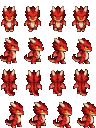
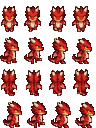
feat(agents): herramientas desde las garras de Dr4co y paso lateral del sprite
- Nuevo modulo AgentCosmetics: parche Harmony sobre Game1.drawTool que
  desplaza la herramienta mientras se dibuja si el cuerpo activo (modData
  FashionSense.CustomBody.Id) es el de Dr4co. Solo afecta al dibujo; la
  casilla objetivo no cambia y no hay dependencia de Fashion Sense.
  Valores por direccion en Pelican4Ever.Core/Players/AgentToolOffset.cs.
- Sprite (GIMP): el pie delantero de las vistas laterales da el paso
  (1 px), contorno oscuro en los bordes claros (punta del hocico) y la
  fila izquierda va 2 px hacia la cola para no cortar el hocico.

diff --git a/scripts/build_dr4co_body.py b/scripts/build_dr4co_body.py
@@ -28,6 +28,9 @@ TOP=40        # source rows above this are empty in every cell
 SRC=os.path.abspath("dr4co-sid-v2.png")
 src=Image.open(SRC).convert("RGBA")
 
+FOOT_H=5      # rows of the front foot that are moved to make the step
+STEP={0:(0,0),1:(1,-1),2:(0,0),3:(-1,0)}   # front-foot (dx,dy) per walk frame: 1 px forward+raised, planted, 1 px back
+feet_regions=[]   # (x, y, w, h, dx, dy) in sheet px
 specs=[]   # (src_x, src_y, src_w, src_h, target_w, target_h, x_in_cell, y_in_cell, cell_x, cell_y)
 for r in range(4):
     sr=1 if r==3 else r                       # left row = right row, unflipped
@@ -39,7 +42,7 @@ for r in range(4):
     feet=[]
     for a in alph:
         cols=np.where(a[-12:].any(0))[0]; feet.append((cols.min()+cols.max())/2)
-    feet_row=float(np.mean(feet)); target=FOOTX if r!=3 else CW-FOOTX
+    feet_row=float(np.mean(feet)); target=FOOTX if r!=3 else CW-FOOTX-2   # left row: 2 px towards the tail so the snout tip is not clipped by the cell edge
     tw,th=round(64*f*sx),round(sh*f)
     for c in range(4):
         centre=(boxes[c][0]+boxes[c][2])/2 if r in (0,2) else feet_row
@@ -48,9 +51,17 @@ for r in range(4):
         # so the dragon never floats above its shadow / collision tile
         oy=CH-round(boxes[c][3]*f)
         specs.append((c*64,sr*128+TOP,64,sh,tw,th,ox,oy,c*CW,r*CH))
+        if r in (1,3):
+            # front foot (the one on the snout side): bottom rows, right of the feet centre
+            a=alph[c]; bot=boxes[c][3]
+            cols=np.where(a[bot-10:bot].any(0))[0]; cols=cols[cols>feet_row+2]
+            if len(cols):
+                fx0=c*CW+ox+int(np.floor(cols.min()*f)); fx1=c*CW+ox+int(np.ceil(cols.max()*f))+1
+                feet_regions.append((fx0, r*CH+CH-FOOT_H, fx1-fx0, FOOT_H)+STEP[c])
     print("row",r,"scale %.3f x %.3f"%(f*sx,f),"target %dx%d"%(tw,th))
 
 def q(p): return '"'+p.replace('\\','\\\\').replace('"','\\"')+'"'
+foot_s=" ".join("(list %d %d %d %d %d %d)"%t for t in feet_regions if t[4] or t[5])
 spec_s=" ".join("(list %d %d %d %d %d %d %d %d %d %d)"%s for s in specs)
 scm=f'''
 (let* ((srcimg (car (gimp-file-load RUN-NONINTERACTIVE {q(SRC)} {q(SRC)})))
@@ -74,6 +85,30 @@ scm=f'''
     (list {spec_s}))
   (let* ((layer (car (gimp-image-merge-visible-layers sheet CLIP-TO-IMAGE))))
     (plug-in-threshold-alpha RUN-NONINTERACTIVE sheet layer 90)
+    ; step: move the front foot of the side views (floating selection, then anchor)
+    (for-each
+      (lambda (t)
+        (gimp-image-select-rectangle sheet CHANNEL-OP-REPLACE (nth 0 t) (nth 1 t) (nth 2 t) (nth 3 t))
+        (gimp-image-select-item sheet CHANNEL-OP-INTERSECT layer)
+        (let* ((fl (car (gimp-selection-float layer (nth 4 t) (nth 5 t)))))
+          (gimp-floating-sel-anchor fl)))
+      (list {foot_s}))
+    (gimp-selection-none sheet)
+    ; dark outline wherever the silhouette edge is bright (snout tip, horn tips, belly, highlights);
+    ; edges that are already dark are left alone. Brightness mask = value-thresholded copy.
+    (let* ((mask (car (gimp-layer-copy layer FALSE))))
+      (gimp-image-insert-layer sheet mask 0 -1)
+      (gimp-drawable-threshold mask HISTOGRAM-VALUE 0.6 1.0)
+      (gimp-image-select-item sheet CHANNEL-OP-REPLACE layer)
+      (gimp-selection-shrink sheet 1)
+      (gimp-selection-invert sheet)
+      (gimp-image-select-item sheet CHANNEL-OP-INTERSECT layer)
+      (gimp-context-set-sample-threshold 0.1)
+      (gimp-image-select-color sheet CHANNEL-OP-INTERSECT mask '(255 255 255))
+      (gimp-image-remove-layer sheet mask))
+    (gimp-context-set-foreground '(77 7 11))
+    (gimp-drawable-edit-fill layer FILL-FOREGROUND)
+    (gimp-selection-none sheet)
     (gimp-image-convert-indexed sheet CONVERT-DITHER-NONE CONVERT-PALETTE-GENERATE {NCOL} FALSE TRUE "")
     (gimp-image-convert-rgb sheet)
     (file-png-save RUN-NONINTERACTIVE sheet layer {q(OUT)} {q(OUT)} 0 9 0 0 0 0 0))

diff --git a/Pelican4Ever/Modules/AgentCosmeticsModule.cs b/Pelican4Ever/Modules/AgentCosmeticsModule.cs
@@ -1,0 +1,67 @@
+using System;
+using HarmonyLib;
+using Microsoft.Xna.Framework;
+using Pelican4Ever.Core.Players;
+using Pelican4Ever.Framework;
+using StardewModdingAPI;
+using StardewValley;
+
+namespace Pelican4Ever.Modules
+{
+    /// <summary>
+    /// Ajustes de dibujo para los cuerpos cosméticos de los agentes (p. ej. Dr4co, pack de Fashion Sense).
+    /// Desplaza la herramienta en uso para que salga de las garras del cuerpo y no de su cara.
+    /// No depende de Fashion Sense: solo lee el id del cuerpo en <c>Farmer.modData</c>, que se sincroniza,
+    /// así que cada cliente con el mod dibuja bien también las herramientas de los demás.
+    /// </summary>
+    public sealed class AgentCosmeticsModule : IModule
+    {
+        private static ModContext? context;
+
+        public string Name => "AgentCosmetics";
+
+        public ModuleSide Side => ModuleSide.Both;
+
+        public void Register(ModContext ctx)
+        {
+            context = ctx;
+            try
+            {
+                ctx.Harmony.Patch(
+                    original: AccessTools.Method(typeof(Game1), nameof(Game1.drawTool), new[] { typeof(Farmer), typeof(int) }),
+                    prefix: new HarmonyMethod(typeof(AgentCosmeticsModule), nameof(Prefix_DrawTool)),
+                    finalizer: new HarmonyMethod(typeof(AgentCosmeticsModule), nameof(Finalizer_DrawTool))
+                );
+                ctx.Monitor.Log("[AgentCosmeticsModule] Parche de herramienta para cuerpos de agente aplicado.", LogLevel.Trace);
+            }
+            catch (Exception ex)
+            {
+                ctx.Monitor.Log($"[AgentCosmeticsModule] Error al aplicar parches Harmony: {ex}", LogLevel.Error);
+            }
+        }
+
+        /// <summary>Suma el desplazamiento a <c>armOffset</c> solo durante el dibujo de la herramienta.</summary>
+        public static void Prefix_DrawTool(Farmer f, out Vector2 __state)
+        {
+            __state = Vector2.Zero;
+            if (f == null)
+                return;
+
+            f.modData.TryGetValue(AgentToolOffset.BodyModDataKey, out string? bodyId);
+            (int x, int y) = AgentToolOffset.Get(bodyId, f.FacingDirection);
+            if (x == 0 && y == 0)
+                return;
+
+            __state = new Vector2(x, y);
+            f.armOffset += __state;
+        }
+
+        /// <summary>Deshace el desplazamiento aunque el dibujo lance una excepción.</summary>
+        public static Exception? Finalizer_DrawTool(Farmer f, Vector2 __state, Exception? __exception)
+        {
+            if (f != null && __state != Vector2.Zero)
+                f.armOffset -= __state;
+            return __exception;
+        }
+    }
+}

diff --git a/Pelican4Ever.Tests/AgentToolOffsetTests.cs b/Pelican4Ever.Tests/AgentToolOffsetTests.cs
@@ -1,0 +1,61 @@
+using System.Text.Json;
+using Pelican4Ever.Core.Players;
+using Xunit;
+
+namespace Pelican4Ever.Tests
+{
+    public class AgentToolOffsetTests
+    {
+        [Theory]
+        [InlineData(null)]
+        [InlineData("")]
+        [InlineData("SomeOther.Pack/Player/Body")]
+        public void OtherBodies_AreNotMoved(string? bodyId)
+        {
+            for (int dir = 0; dir < 4; dir++)
+                Assert.Equal((0, 0), AgentToolOffset.Get(bodyId, dir));
+        }
+
+        [Fact]
+        public void Dr4co_LowersTheToolInEveryDirection_AndPullsItBackOnTheSides()
+        {
+            for (int dir = 0; dir < 4; dir++)
+                Assert.True(AgentToolOffset.Get(AgentToolOffset.Dr4coBodyId, dir).Y > 0);
+
+            (int rightX, int rightY) = AgentToolOffset.Get(AgentToolOffset.Dr4coBodyId, 1);
+            (int leftX, int leftY) = AgentToolOffset.Get(AgentToolOffset.Dr4coBodyId, 3);
+            Assert.True(rightX < 0);   // facing right: towards the body
+            Assert.True(leftX > 0);    // facing left: towards the body
+            Assert.Equal(rightY, leftY);
+        }
+
+        [Fact]
+        public void UnknownDirection_IsNotMoved()
+        {
+            Assert.Equal((0, 0), AgentToolOffset.Get(AgentToolOffset.Dr4coBodyId, 7));
+        }
+
+        [Fact]
+        public void Dr4coBodyId_MatchesTheFashionSensePack()
+        {
+            string root = FindRepoRoot();
+            string pack = Path.Combine(root, "agents", "Dr4co.FashionSense");
+            using JsonDocument manifest = JsonDocument.Parse(File.ReadAllText(Path.Combine(pack, "manifest.json")));
+            using JsonDocument body = JsonDocument.Parse(File.ReadAllText(Path.Combine(pack, "Bodies", "Dr4co", "body.json")));
+
+            string expected = $"{manifest.RootElement.GetProperty("UniqueID").GetString()}/Player/{body.RootElement.GetProperty("Name").GetString()}";
+            Assert.Equal(expected, AgentToolOffset.Dr4coBodyId);
+        }
+
+        private static string FindRepoRoot()
+        {
+            for (DirectoryInfo? dir = new(AppContext.BaseDirectory); dir != null; dir = dir.Parent)
+            {
+                if (Directory.Exists(Path.Combine(dir.FullName, "agents", "Dr4co.FashionSense")))
+                    return dir.FullName;
+            }
+
+            throw new DirectoryNotFoundException("Could not locate the Dr4co Fashion Sense pack.");
+        }
+    }
+}

diff --git a/Pelican4Ever.Core/Players/AgentToolOffset.cs b/Pelican4Ever.Core/Players/AgentToolOffset.cs
@@ -1,0 +1,39 @@
+namespace Pelican4Ever.Core.Players
+{
+    /// <summary>
+    /// Desplazamiento con el que se dibujan las herramientas (hacha, pico, etc.) cuando el jugador lleva
+    /// un cuerpo de agente de Fashion Sense más bajo que el granjero vanilla.
+    /// El juego dibuja la herramienta a la altura de las manos de un granjero de 32 px
+    /// (<c>Game1.drawTool</c>: posición + <c>armOffset</c>) y Fashion Sense no permite moverla.
+    /// Solo cambia el dibujo: la casilla objetivo de la herramienta no varía.
+    /// </summary>
+    public static class AgentToolOffset
+    {
+        /// <summary>Clave de <c>Farmer.modData</c> donde Fashion Sense guarda el cuerpo activo.</summary>
+        public const string BodyModDataKey = "FashionSense.CustomBody.Id";
+
+        /// <summary>Cuerpo de Dr4co (pack <c>agents/Dr4co.FashionSense</c>).</summary>
+        public const string Dr4coBodyId = "Dr4co.Stardew.FashionSenseBody/Player/Dr4co";
+
+        /// <summary>
+        /// Desplazamiento en píxeles del mundo (4 por píxel de arte) según la dirección
+        /// (0 arriba, 1 derecha, 2 abajo, 3 izquierda). (0, 0) si el cuerpo no es de un agente conocido.
+        /// </summary>
+        public static (int X, int Y) Get(string? bodyId, int facingDirection)
+        {
+            if (bodyId != Dr4coBodyId)
+                return (0, 0);
+
+            // Dr4co mide ~26 px y apoya los pies en la casilla: sus garras quedan ~4 px de arte más abajo
+            // que las manos vanilla y, de perfil, más atrás que la punta del hocico.
+            return facingDirection switch
+            {
+                0 => (0, 16),
+                1 => (-8, 16),
+                2 => (4, 16),
+                3 => (16, 16),   // la fila izquierda del sprite va 2 px más hacia la cola
+                _ => (0, 0)
+            };
+        }
+    }
+}

diff --git a/Pelican4Ever/ModEntry.cs b/Pelican4Ever/ModEntry.cs
@@ -51,6 +51,7 @@ namespace Pelican4Ever
                 new FestivalMinigameModule(),
                 new FestivalAccessModule(),
                 new FestivalParticipationModule(),
+                new AgentCosmeticsModule(),
                 new AdminApiModule(),
                 new AutoHostModule()
             );

diff --git a/agents/README.md b/agents/README.md
@@ -53,10 +53,24 @@ fotograma y en x=9,5; las vistas
 frontal/trasera se estrechan un 15 %. La arte sale de `dr4co-sid-v2.png`: el
 script `scripts/build_dr4co_body.py` solo calcula la geometría y GIMP
 (`gimp-console-2.10`, Script-Fu) hace el recorte, el escalado NoHalo, el umbral
-de alfa y la paleta indexada de 32 colores.
+de alfa y la paleta indexada de 32 colores. También en GIMP: en las vistas
+laterales se desplaza 1 px el pie delantero (adelante y elevado / atrás) para
+que también dé el paso, y los bordes claros o rojo vivo de la silueta (punta
+del hocico, cuernos, vientre) reciben un contorno rojo muy oscuro.
 
 `HideSleeves: true` en las cuatro direcciones evita que, al usar el hacha o el
 pico, el juego dibuje el brazo/manga del granjero sobre el ala del dragón.
+
+La fila izquierda va 2 px más hacia la cola que la derecha: a la izquierda del
+punto de apoyo solo caben ~8 px y, si no, la punta del hocico se cortaba.
+
+El juego dibuja la herramienta a la altura de las manos de un granjero de
+32 px y Fashion Sense no permite moverla. El módulo `AgentCosmetics` de
+Pelican 4Ever (`Pelican4Ever/Modules/AgentCosmeticsModule.cs`, valores en
+`Pelican4Ever.Core/Players/AgentToolOffset.cs`) la desplaza mientras se dibuja
+cuando el cuerpo activo es el de Dr4co, para que salga de sus garras. Solo lee
+el id del cuerpo en `modData`, así que Pelican 4Ever sigue sin depender de
+Fashion Sense, y la casilla a la que golpea la herramienta no cambia.
 
 Verificado en local (Fashion Sense 7.5.0, SMAPI, partida cargada): dragón visible
 y sin restos humanos andando en las cuatro direcciones.
